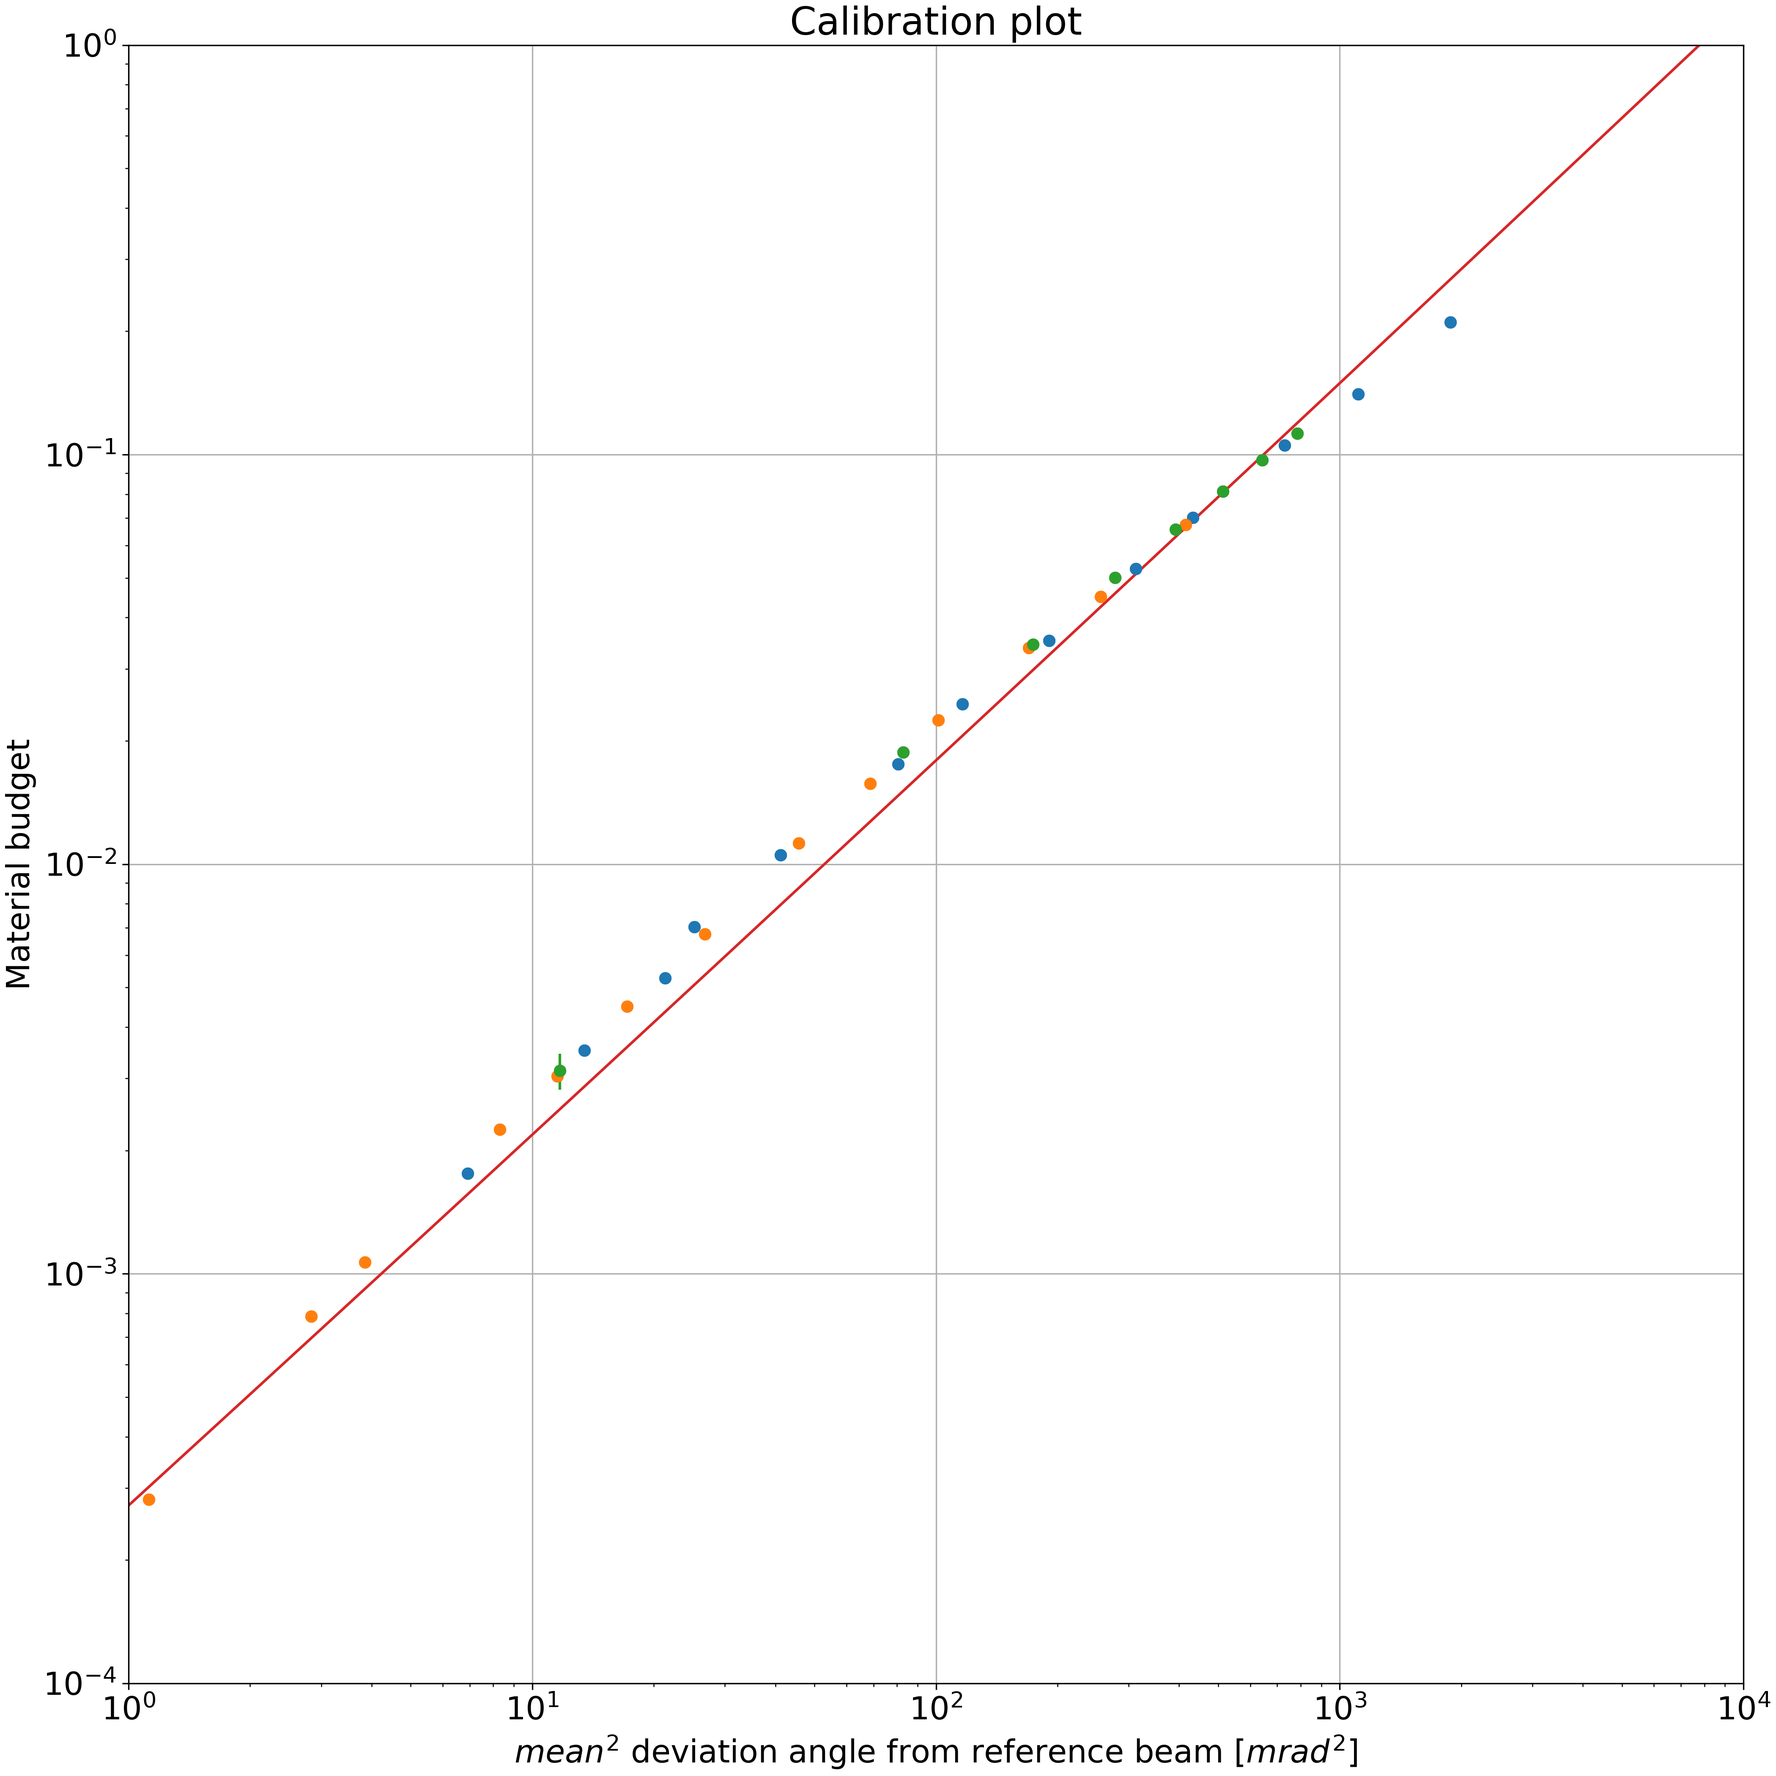
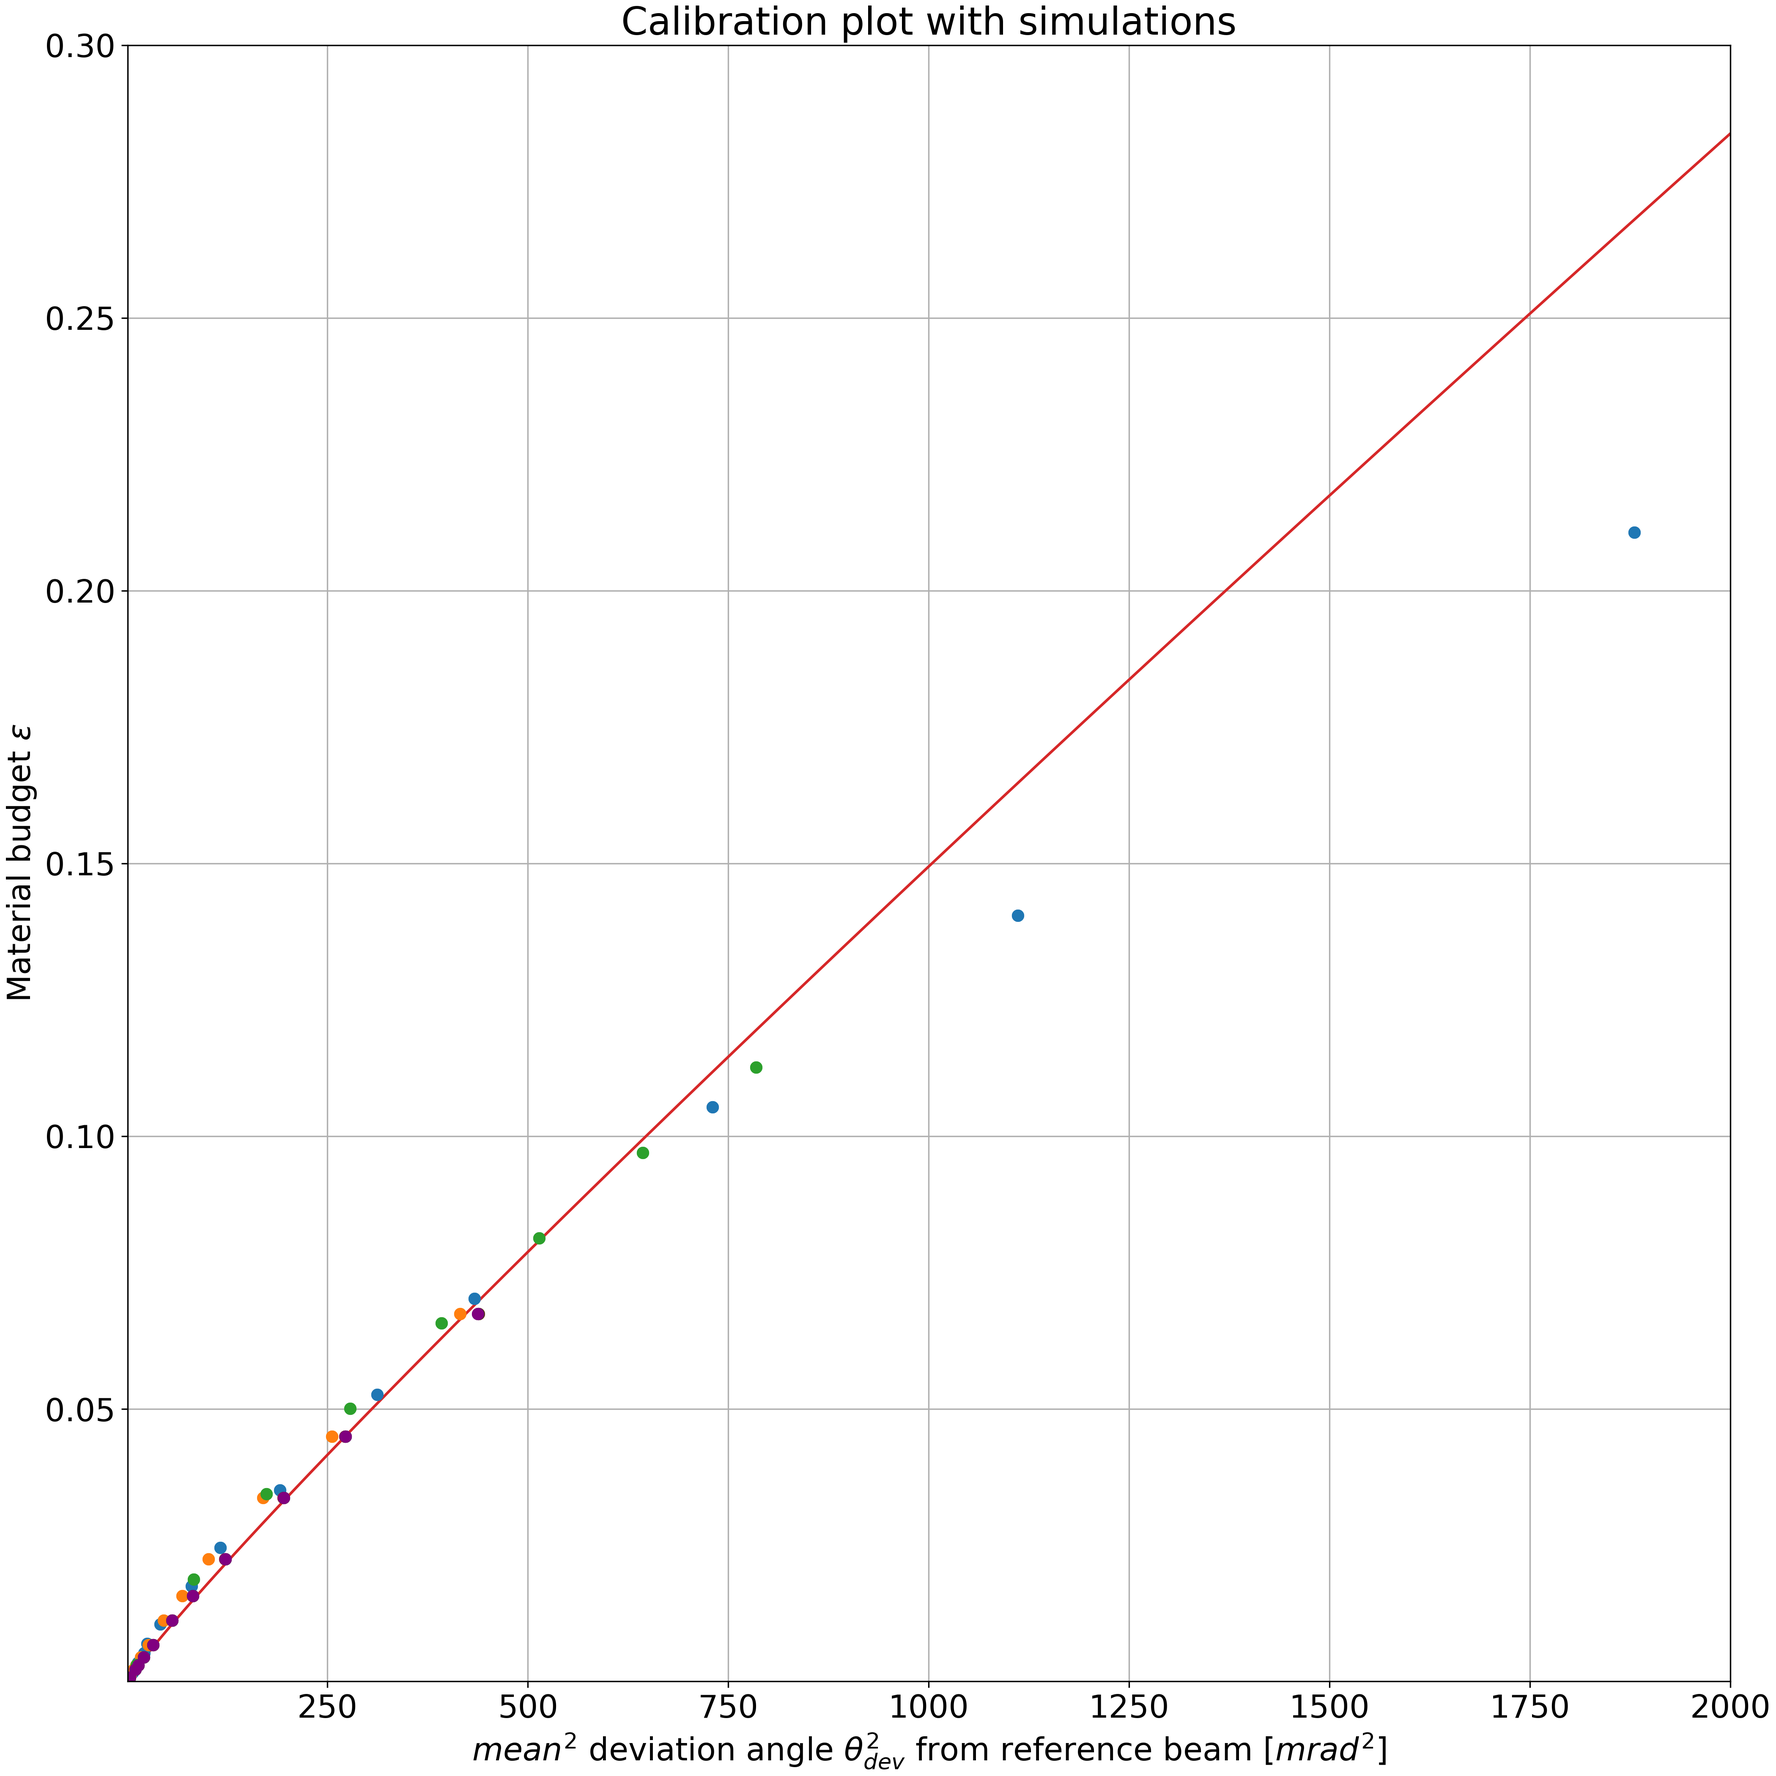
Add files via upload
updated plot list and analysis file. Now the simulation data can be included into the calibraiton plot

diff --git a/Testbeam_data/Metal Sheets/scattering_calibration_plot_metal_sheets.py b/Testbeam_data/Metal Sheets/scattering_calibration_plot_metal_sheets.py
@@ -281,7 +281,7 @@ def plot_histo(list_of_halves, widths, startparams_amplitude, startparams_mu, st
 
 
 def func(x, p0, p1, p2, p3, p4):
-    return ((p0+p1*(x-p2)**0.5)*(p3+p4*x**2))
+    return ((p0+p1*(x-p2)**0.5)*(p3+p4*x))
 
 def calibrationplot(material_nickel, material_aluminum, means_list_nickel, means_list_aluminum, std_list_nickel, std_list_aluminum, N_list_nickel, N_list_aluminum):   
     radiation_length_nickel = 14.24                       #in mm                                   
@@ -333,10 +333,12 @@ def calibrationplot(material_nickel, material_aluminum, means_list_nickel, means
     
     
     #popt, pcov = curve_fit(polynom, fit_data_means_array, fit_data_material_budgets_array)              #The curve fit can be done with or without start value of parameters
-    popt, pcov = curve_fit(func, fit_data_means_array, fit_data_material_budgets_array, method = 'lm', p0 = [-0.1, 0.3, -0.2, 1.2, 0.01]) 
+    popt, pcov = curve_fit(func, fit_data_means_array, fit_data_material_budgets_array, sigma=fit_yerror_array, method = 'trf', p0 = [-0.1, 0.3, -0.2, 1.2, 0.01], maxfev=100000) 
+    perr = np.sqrt(np.diag(pcov))
     #popt, pcov = curve_fit(func, fit_data_means_array, fit_data_material_budgets_array, sigma=fit_yerror_array, absolute_sigma=True, method = 'lm', p0 = [-0.1, 0.3, -0.2, 1.2, 0.01])
     
-    print('The fit parameters are:  p_0=%5.3f, p_1=%5.3f, p_2=%5.3f, p_3=%5.3f, p_4=%5.3f' % tuple(popt))
+    print('The fit parameters are :  p_0=%5.4f, p_1=%5.4f, p_2=%5.4f, p_3=%5.4f, p_4=%5.8f' % tuple(popt))
+    print("The errors on those are: ", abs(perr[0]), abs(perr[1]), abs(perr[2]), abs(perr[3]), abs(perr[4]))
     condition_number_covariant_matrix = np.linalg.cond(pcov)                    #This is a measurement of overparametrization, everything under 50 is fine. Is it above chances are high there are redundant parameters
     print('Covariant Matrix condition number is: ', condition_number_covariant_matrix)
     matrix_diagonal = np.diag(pcov)                                             #In the Matrix diagonal one can see which parameters cause big uncertainties
@@ -355,18 +357,143 @@ def calibrationplot(material_nickel, material_aluminum, means_list_nickel, means
     ax.plot(highland(highland_y), highland_y, label = 'Highland prediction')
     ax.set_xscale('log')
     ax.set_yscale('log')
-    ax.set_xlabel('$mean^2$ deviation angle from reference beam [$mrad^2$]', style='normal')            #think of a new name for mean... it's technically not a mean
-    ax.set_ylabel('Material budget')
+    ax.set_xlabel('$mean^2$ deviation angle $\\theta_{dev}^2$ from reference beam [$mrad^2$]', style='normal')            #think of a new name for mean... it's technically not a mean
+    ax.set_ylabel('Material budget $\epsilon$')
     ax.set_title('Calibration plot')
     ax.grid()
     ax.set_axisbelow(True)
-    plt.xlim([1, 10000])
+    plt.xlim([1, 2000])
     plt.ylim([0.0001, 1])
     plt.savefig('metal_sheet_calibration_plot', dpi = 300)
     func_x=np.arange(1,10000)
-    ax.plot(func_x, func(func_x, *popt), label='fit: p_0=%5.3f, p_1=%5.3f, p_2=%5.3f, p_3=%5.3f, p_4=%5.3f' % tuple(popt))
-    ax.legend(fontsize = 14, shadow=True, title='fit function: (p0+p1*(x-p2)**0.5)*(p3+p4*x**2)')
+    ax.plot(func_x, func(func_x, *popt), label='fit: $p_0=%5.3f$, $p_1=%5.4f$, $p_2=%5.0f$, $p_3=%5.5f$, $p_4=%5.8f$' % tuple(popt))
+    ax.legend(fontsize = 14, shadow=True, title='fit function: $\epsilon = (p_0+p_1 \sqrt{(\\theta_{dev}^2-p_2)})(p_3+p_4 \\theta_{dev}^2)$')
     plt.savefig('all_data_fit_calibration_plot', dpi = 300)
+
+def calibrationplotplussimulations(data_wentzel,data_urban, data_goudsmit,material_nickel, material_aluminum, means_list_nickel, means_list_aluminum, std_list_nickel, std_list_aluminum, N_list_nickel, N_list_aluminum):   
+    radiation_length_nickel = 14.24                       #in mm                                   
+    radiation_length_aluminum = 88.97                     #in mm   
+    error_in_radiation_length = 0.002                     #considering the decimal value given by pdg 
+    error_in_material_thickness = 0.0002                  #error in mm
+
+    m = len(list_of_material_thicknesses_nickel)
+
+    list_of_material_thicknesses_simulations = ([0.07, 0.2, 0.27, 0.4, 0.6, 1.0, 1.4, 2.0, 3.0, 4.0, 6.0])
+    
+    material_budget_nickel = ([])
+    material_budget_aluminum = ([])
+    material_budget_error_nickel = ([])
+    material_budget_error_aluminum = ([])
+    material_budget_simulations = ([])
+    
+    for i in range (1, m):
+        material_budget_nickel.append(material_nickel[i]/radiation_length_nickel)
+        material_budget_aluminum.append(material_aluminum[i]/radiation_length_aluminum)
+        material_budget_error_nickel_i = np.sqrt(((error_in_material_thickness/radiation_length_nickel)**2+(error_in_radiation_length*material_nickel[i]/(radiation_length_nickel)**2)**2))
+        material_budget_error_aluminum_i = np.sqrt(((error_in_material_thickness/radiation_length_aluminum)**2+(error_in_radiation_length*material_aluminum[i]/(radiation_length_aluminum)**2)**2))
+        material_budget_error_nickel.append(material_budget_error_nickel_i)
+        material_budget_error_aluminum.append(material_budget_error_aluminum_i)
+    for i in range(len(list_of_material_thicknesses_simulations)):
+        material_budget_simulations.append(list_of_material_thicknesses_simulations[i]/radiation_length_aluminum)
+        
+
+    xerror_nickel = std_list_nickel/(np.sqrt(N_list_nickel))
+    xerror_aluminum = std_list_aluminum/(np.sqrt(N_list_aluminum))
+    nickel = {'Material budget nickel': material_budget_nickel, ' Material budget error': material_budget_error_nickel, ' mean-squared deviation angle from reference beam': means_list_nickel, ' xerror': xerror_nickel}
+    plot_data_nickel = pd.DataFrame(data=nickel)
+    aluminum = {'Material budget aluminium': material_budget_aluminum, ' Material budget error': material_budget_error_aluminum, ' mean-squared deviation angle from reference beam': means_list_aluminum, ' xerror': xerror_aluminum}
+    plot_data_aluminum = pd.DataFrame(data=aluminum)
+    plot_data_nickel.to_csv('Calibration_data/calibration_data_nickel.csv', sep=',', index=False)
+    plot_data_aluminum.to_csv('Calibration_data/calibration_data_aluminum.csv', sep=',', index=False) 
+    peek_data = pd.read_csv('../PEEK/Calibration_data/calibration_data_peek.csv', sep=',', skiprows=(1), names= ['Material Budget Peek', 'Material Budget error', 'mean-squared deviation angle from reference beam', 'xerror'])
+    material_budget_peek = list(peek_data.iloc[:, 0])
+    material_budget_error_peek = list(peek_data.iloc[:, 1])
+    means_list_peek = list(peek_data.iloc[:, 2])
+    xerror_peek = list(peek_data.iloc[:, 3])
+    
+    
+    
+    
+    
+    d = 75*10**(-3) # distance metal sheets <-> detector in m
+    data_wentzel.loc[:, ["mean"]] = (np.sqrt((data_wentzel.loc[:, ["mean"]])**2 - (6.30171)**2)) *(55*10**(-6))     #background deduction
+    data_wentzel.loc[:, ["mean"]] = (np.arctan(data_wentzel.loc[:, ["mean"]]/d)*10**(+3))**2
+    data_urban.loc[:, ["mean"]] = (np.sqrt((data_urban.loc[:, ["mean"]])**2 - (6.29351)**2)) *(55*10**(-6))     #background deduction
+    data_urban.loc[:, ["mean"]] = (np.arctan(data_urban.loc[:, ["mean"]]/d)*10**(+3))**2
+    data_goudsmit.loc[:, ["mean"]] = (np.sqrt((data_goudsmit.loc[:, ["mean"]])**2 - (6.28476)**2)) *(55*10**(-6))     #background deduction
+    data_goudsmit.loc[:, ["mean"]] = (np.arctan(data_goudsmit.loc[:, ["mean"]]/d)*10**(+3))**2
+    
+    means_list_wentzel = list(data_wentzel.iloc[:, 1])
+    xerror_wentzel = list((data_wentzel.iloc[:, 2])**2)
+    means_list_urban = list(data_urban.iloc[:, 1])
+    xerror_urban = list((data_urban.iloc[:, 2])**2)
+    means_list_goudsmit = list(data_goudsmit.iloc[:, 1])
+    xerror_goudsmit = list((data_goudsmit.iloc[:, 2])**2)
+    
+    
+    
+    fit_data_means = *means_list_nickel, *means_list_aluminum, *means_list_peek
+    fit_data_material_budgets = *material_budget_nickel, *material_budget_aluminum, *material_budget_peek
+    fit_yerror = *material_budget_error_nickel, *material_budget_error_aluminum, *material_budget_error_peek
+    fit_xerror = *xerror_nickel, *xerror_aluminum, *xerror_peek
+    
+    all_data = {'Material Budget ': fit_data_material_budgets, ' Material budget error': fit_yerror, ' mean-squared deviation angle from reference beam': fit_data_means, ' xerror': fit_xerror}
+    plot_fit_data = pd.DataFrame(data=all_data)
+    plot_fit_data.to_csv('Calibration_data/calibration_data_all.csv', sep=',', index=False) 
+    
+    fit_data_means_array = np.array(fit_data_means)
+    fit_data_material_budgets_array = np.array(fit_data_material_budgets)
+    fit_yerror_array = np.array(fit_yerror)
+    fit_xerror_array = np.array(fit_xerror)
+    
+    
+    #popt, pcov = curve_fit(polynom, fit_data_means_array, fit_data_material_budgets_array)              #The curve fit can be done with or without start value of parameters
+    popt, pcov = curve_fit(func, fit_data_means_array, fit_data_material_budgets_array, sigma=fit_yerror_array, method = 'trf', p0 = [-0.1, 0.3, -0.2, 1.2, 0.01], maxfev=100000) 
+    perr = np.sqrt(np.diag(pcov))
+    #popt, pcov = curve_fit(func, fit_data_means_array, fit_data_material_budgets_array, sigma=fit_yerror_array, absolute_sigma=True, method = 'lm', p0 = [-0.1, 0.3, -0.2, 1.2, 0.01])
+    
+    print('The fit parameters are :  p_0=%5.4f, p_1=%5.4f, p_2=%5.4f, p_3=%5.4f, p_4=%5.8f' % tuple(popt))
+    print("The errors on those are: ", abs(perr[0]), abs(perr[1]), abs(perr[2]), abs(perr[3]), abs(perr[4]))
+    condition_number_covariant_matrix = np.linalg.cond(pcov)                    #This is a measurement of overparametrization, everything under 50 is fine. Is it above chances are high there are redundant parameters
+    print('Covariant Matrix condition number is: ', condition_number_covariant_matrix)
+    matrix_diagonal = np.diag(pcov)                                             #In the Matrix diagonal one can see which parameters cause big uncertainties
+    print('Matrix diagonal is: ', matrix_diagonal)
+
+    fig, ax = plt.subplots(figsize=(14,14), layout='constrained')
+    ax.scatter( means_list_nickel, material_budget_nickel, label = 'Nickel') #Plotting data onto the axes
+    ax.errorbar( means_list_nickel, material_budget_nickel, yerr = material_budget_error_nickel , xerr = xerror_nickel, fmt="o")
+    
+    ax.scatter( means_list_aluminum, material_budget_aluminum, label = 'Aluminium') #Plotting data onto the axes
+    ax.errorbar( means_list_aluminum, material_budget_aluminum, yerr = material_budget_error_aluminum , xerr = xerror_aluminum, fmt="o")
+    
+    ax.scatter( means_list_peek, material_budget_peek, label = 'PEEK') #Plotting data onto the axes
+    ax.errorbar( means_list_peek, material_budget_peek, yerr = material_budget_error_peek , xerr = xerror_peek, fmt="o")
+    highland_y=np.arange(0.0001, 1, 0.0001)
+    ax.plot(highland(highland_y), highland_y, label = 'Highland prediction')
+    
+    ax.scatter( means_list_wentzel, material_budget_simulations, label = 'Wentzel VI aluminium simulation',color="brown") #Plotting data onto the axes
+    ax.errorbar( means_list_wentzel, material_budget_simulations, xerr = xerror_wentzel, fmt="o", color="brown")
+    ax.scatter( means_list_urban, material_budget_simulations, label = 'Urban MSC aluminium simulation', color="darkgreen") #Plotting data onto the axes
+    ax.errorbar( means_list_urban, material_budget_simulations, xerr = xerror_urban, fmt="o", color="darkgreen")
+    ax.scatter( means_list_goudsmit, material_budget_simulations, label = 'Goudsmit Saunderson aluminium simulation', color="purple") #Plotting data onto the axes
+    ax.errorbar( means_list_goudsmit, material_budget_simulations, xerr = xerror_goudsmit, fmt="o", color="purple")
+    
+    
+    ax.set_xscale('log')
+    ax.set_yscale('log')
+    ax.set_xlabel('$mean^2$ deviation angle $\\theta_{dev}^2$ from reference beam [$mrad^2$]', style='normal')            #think of a new name for mean... it's technically not a mean
+    ax.set_ylabel('Material budget $\epsilon$')
+    ax.set_title('Calibration plot with simulations')
+    ax.grid()
+    ax.set_axisbelow(True)
+    plt.xlim([1, 2000])
+    plt.ylim([0.0001, 1])
+    plt.savefig('metal_sheet_calibration_plot', dpi = 300)
+    func_x=np.arange(1,10000)
+    ax.plot(func_x, func(func_x, *popt), label='fit: $p_0=%5.3f$, $p_1=%5.4f$, $p_2=%5.0f$, $p_3=%5.5f$, $p_4=%5.8f$' % tuple(popt))
+    ax.legend(fontsize = 14, shadow=True, title='fit function: $\epsilon = (p_0+p_1 \sqrt{(\\theta_{dev}^2-p_2)})(p_3+p_4 \\theta_{dev}^2)$')
+    plt.savefig('all_data_fit_calibration_plot_with_simulations', dpi = 300)
+    plt.show()
 
 def calibrationplot_both_alus(material_nickel, material_aluminum, means_list_nickel, means_list_aluminum_1, means_list_aluminum_2, std_list_nickel, _1, std_list_aluminum_2, N_list_nickel, N_list_aluminum_1, N_list_aluminum_2):
     radiation_length_nickel = 14.24                       #in mm                                   
@@ -551,7 +678,13 @@ if __name__ == '__main__':
             calibrationplot(list_of_material_thicknesses_nickel, list_of_material_thicknesses_aluminum, means_list_nickel, means_list_aluminum, std_list_nickel, std_list_aluminum, N_list_nickel, N_list_aluminum)
             #calibrationplot(list_of_material_thicknesses_nickel, list_of_material_thicknesses_aluminum, means_list_nickel, means_list_aluminum_1, std_list_nickel, std_list_aluminum_1, N_list_nickel, N_list_aluminum_1)
             #calibrationplot_both_alus(list_of_material_thicknesses_nickel, list_of_material_thicknesses_aluminum, means_list_nickel, means_list_aluminum_1, means_list_aluminum_2, std_list_nickel, std_list_aluminum_1, std_list_aluminum_2, N_list_nickel, N_list_aluminum_1, N_list_aluminum_2)
-        plt.show()
+        ask = input("Do you want to add the simulation data? ")
+        if ask.lower() in ["y","yes"]:
+            data_wentzel = pd.read_csv('Calibration_data/Wentzel_simulation_data_amended.txt', sep=',', skiprows=(1), names= ['Material Thickness', 'mean', 'mean error'])
+            data_urban = pd.read_csv('Calibration_data/Urban_simulation_data_amended.txt', sep=',', skiprows=(1), names= ['Material Thickness', 'mean', 'mean error'])
+            data_goudsmit = pd.read_csv('Calibration_data/Goudsmit_simulation_data_amended.txt', sep=',', skiprows=(1), names= ['Material Thickness', 'mean', 'mean error'])
+            calibrationplotplussimulations(data_wentzel,data_urban, data_goudsmit,list_of_material_thicknesses_nickel, list_of_material_thicknesses_aluminum, means_list_nickel, means_list_aluminum, std_list_nickel, std_list_aluminum, N_list_nickel, N_list_aluminum)
+    plt.show()
     end_time = time.time()
     print("Computing time was:  ", round(end_time - start_time, 2), " s")
     print("Which in minutes is: ", round((end_time - start_time)/60, 2) , " min")
